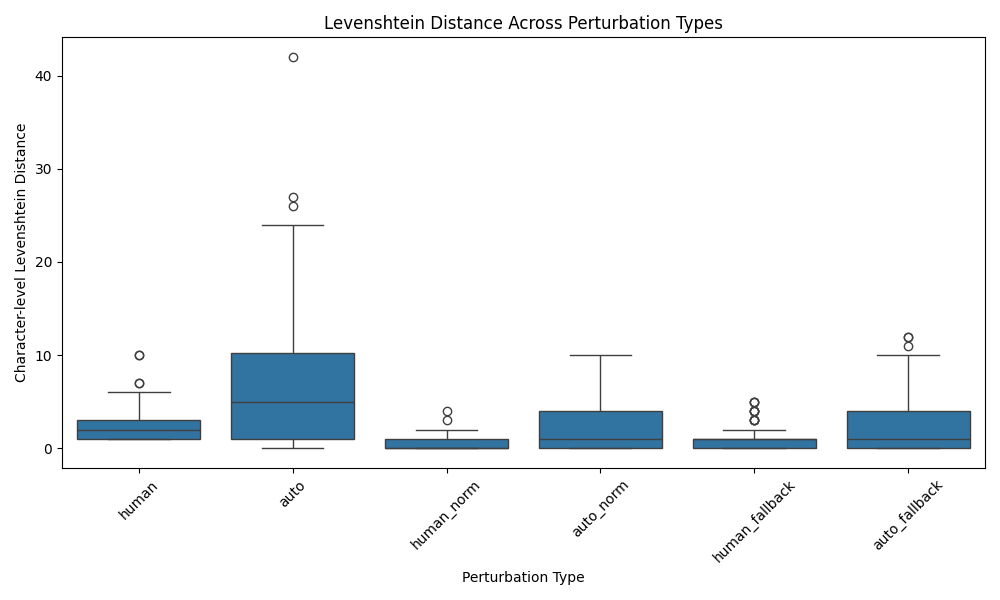
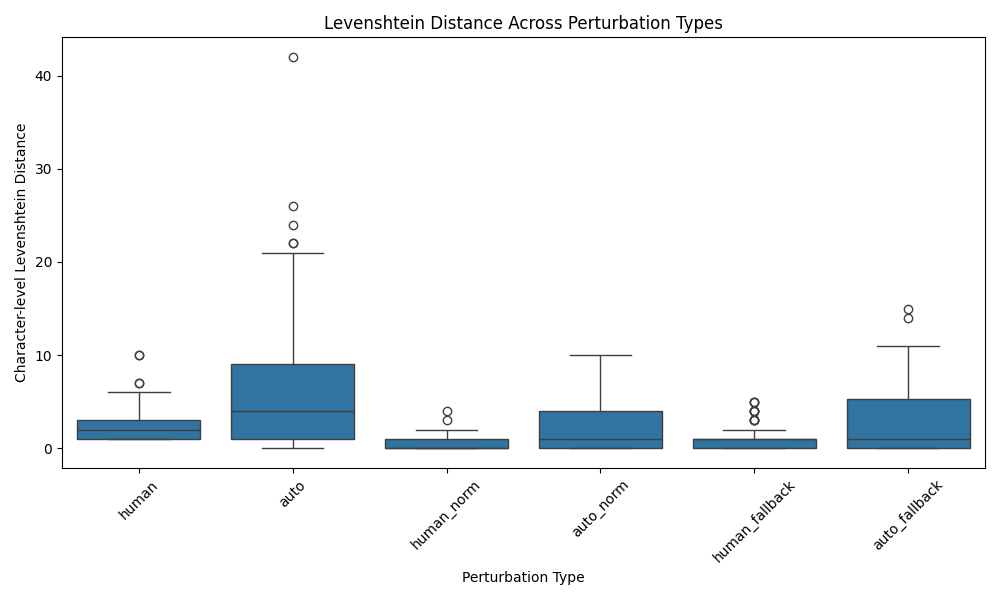
tidied up the visualisations

diff --git a/run.py b/run.py
@@ -19,17 +19,16 @@ def main():
     clean_texts = df["clean_version"].head(100).tolist()
     human_texts = df["perturbed_version"].head(100).tolist()
 
-    # Baseline (Detoxify)
     print("Evaluating Detoxify on clean texts...")
     clean_scores = evaluate_toxicity(clean_texts)
 
     print("Applying normalisation mitigation (clean)...")
-    norm_clean_texts = [normalise_text(t) for t in clean_texts]
-    norm_clean_scores = evaluate_toxicity(norm_clean_texts)
+    clean_norm_texts = [normalise_text(t) for t in clean_texts]
+    clean_norm_scores = evaluate_toxicity(clean_norm_texts)
 
     print("Applying detection + fallback mitigation (clean)...")
-    fallback_clean_texts = detect_and_fallback(clean_texts, fallback_fn=lambda x: x)
-    fallback_clean_scores = evaluate_toxicity(fallback_clean_texts)
+    clean_fallback_texts = detect_and_fallback(clean_texts, fallback_fn=lambda x: x)
+    clean_fallback_scores = evaluate_toxicity(clean_fallback_texts)
 
     print("Evaluating Detoxify on human perturbed texts...")
     human_scores = evaluate_toxicity(human_texts)
@@ -39,22 +38,21 @@ def main():
     auto_texts = [str(t) if t is not None else "" for t in auto_texts]
     auto_scores = evaluate_toxicity(auto_texts)
 
-    # Mitigation strategies (Detoxify)
     print("Applying normalisation mitigation (human)...")
-    norm_human_texts = [normalise_text(t) for t in human_texts]
-    norm_human_scores = evaluate_toxicity(norm_human_texts)
+    human_norm_texts = [normalise_text(t) for t in human_texts]
+    human_norm_scores = evaluate_toxicity(human_norm_texts)
 
     print("Applying detection + fallback mitigation (human)...")
-    fallback_human_texts = detect_and_fallback(human_texts, fallback_fn=lambda x: x)
-    fallback_human_scores = evaluate_toxicity(fallback_human_texts)
+    human_fallback_texts = detect_and_fallback(human_texts, fallback_fn=lambda x: x)
+    human_fallback_scores = evaluate_toxicity(human_fallback_texts)
 
     print("Applying normalisation mitigation (automated)...")
-    norm_auto_texts = [normalise_text(t) for t in auto_texts]
-    norm_auto_scores = evaluate_toxicity(norm_auto_texts)
+    auto_norm_texts = [normalise_text(t) for t in auto_texts]
+    auto_norm_scores = evaluate_toxicity(auto_norm_texts)
 
     print("Applying detection + fallback mitigation (automated)...")
-    fallback_auto_texts = detect_and_fallback(auto_texts, fallback_fn=lambda x: x)
-    fallback_auto_scores = evaluate_toxicity(fallback_auto_texts)
+    auto_fallback_texts = detect_and_fallback(auto_texts, fallback_fn=lambda x: x)
+    auto_fallback_scores = evaluate_toxicity(auto_fallback_texts)
 
     # HateXplain
     print("\nRunning HateXplain on clean texts...")
@@ -70,14 +68,14 @@ def main():
 
     hx_auto_label_stats = evaluate_label_changes(hx_clean, hx_auto)
 
-    hx_human_norm = hatexplain(norm_human_texts)
-    hx_human_fallback = hatexplain(fallback_human_texts)
+    hx_human_norm = hatexplain(human_norm_texts)
+    hx_human_fallback = hatexplain(human_fallback_texts)
 
     hx_human_norm_label_stats = evaluate_label_changes(hx_clean, hx_human_norm)
     hx_human_fallback_label_stats = evaluate_label_changes(hx_clean, hx_human_fallback)
 
-    hx_auto_norm = hatexplain(norm_auto_texts)
-    hx_auto_fallback = hatexplain(fallback_auto_texts)
+    hx_auto_norm = hatexplain(auto_norm_texts)
+    hx_auto_fallback = hatexplain(auto_fallback_texts)
 
     hx_auto_norm_label_stats = evaluate_label_changes(hx_clean, hx_auto_norm)
     hx_auto_fallback_label_stats = evaluate_label_changes(hx_clean, hx_auto_fallback)
@@ -100,36 +98,36 @@ def main():
             persp_clean = evaluate_perspective(clean_texts)
 
             print("Applying normalisation mitigation (Perspective, clean)...")
-            persp_clean_norm = evaluate_perspective(norm_clean_texts)
+            persp_clean_norm = evaluate_perspective(clean_norm_texts)
 
             print("Applying detection + fallback mitigation (Perspective, clean)...")
-            persp_clean_fallback = evaluate_perspective(fallback_clean_texts)
+            persp_clean_fallback = evaluate_perspective(clean_fallback_texts)
 
             print("Evaluating Perspective API on human perturbed texts...")
             persp_human = evaluate_perspective(human_texts)
 
             print("Applying normalisation mitigation (Perspective, human)...")
-            persp_human_norm = evaluate_perspective(norm_human_texts)
+            persp_human_norm = evaluate_perspective(human_norm_texts)
 
             print("Applying detection + fallback mitigation (Perspective, human)...")
-            persp_human_fallback = evaluate_perspective(fallback_human_texts)
+            persp_human_fallback = evaluate_perspective(human_fallback_texts)
 
             print("Evaluating Perspective API on automated perturbed texts...")
             persp_auto = evaluate_perspective(auto_texts)
 
             print("Applying normalisation mitigation (Perspective, auto)...")
-            persp_auto_norm = evaluate_perspective(norm_auto_texts)
+            persp_auto_norm = evaluate_perspective(auto_norm_texts)
 
             print("Applying detection + fallback mitigation (Perspective, auto)...")
-            persp_auto_fallback = evaluate_perspective(fallback_auto_texts)
+            persp_auto_fallback = evaluate_perspective(auto_fallback_texts)
 
             persp_results = {
-                "perspective_clean_norm": compare_toxicity_scores(persp_clean, persp_clean_norm),
-                "perspective_clean_fallback": compare_toxicity_scores(persp_clean, persp_clean_fallback),
                 "perspective_human_drop": compare_toxicity_scores(persp_clean, persp_human),
+                "perspective_auto_drop": compare_toxicity_scores(persp_clean, persp_auto),
+                "perspective_unperturbed_norm": compare_toxicity_scores(persp_clean, persp_clean_norm),
+                "perspective_unperturbed_fallback": compare_toxicity_scores(persp_clean, persp_clean_fallback),
                 "perspective_human_norm": compare_toxicity_scores(persp_clean, persp_human_norm),
                 "perspective_human_fallback": compare_toxicity_scores(persp_clean, persp_human_fallback),
-                "perspective_auto_drop": compare_toxicity_scores(persp_clean, persp_auto),
                 "perspective_auto_norm": compare_toxicity_scores(persp_clean, persp_auto_norm),
                 "perspective_auto_fallback": compare_toxicity_scores(persp_clean, persp_auto_fallback),
             }
@@ -138,17 +136,16 @@ def main():
             print(f"\n⚠ Skipping Perspective API analysis due to error: {e}")
             persp_results = {}
 
-    # Combining the results
     print("\nComparing Detoxify results...")
     result_summary = {
-        "human_drop": compare_toxicity_scores(clean_scores, human_scores),
-        "auto_drop": compare_toxicity_scores(clean_scores, auto_scores),
-        "clean_norm": compare_toxicity_scores(clean_scores, norm_clean_scores),
-        "clean_fallback": compare_toxicity_scores(clean_scores, fallback_clean_scores),
-        "norm_human": compare_toxicity_scores(clean_scores, norm_human_scores),
-        "fallback_human": compare_toxicity_scores(clean_scores, fallback_human_scores),
-        "norm_auto": compare_toxicity_scores(clean_scores, norm_auto_scores),
-        "fallback_auto": compare_toxicity_scores(clean_scores, fallback_auto_scores),
+        "detoxify_human_drop": compare_toxicity_scores(clean_scores, human_scores),
+        "detoxify_auto_drop": compare_toxicity_scores(clean_scores, auto_scores),
+        "detoxify_unperturbed_norm": compare_toxicity_scores(clean_scores, clean_norm_scores),
+        "detoxify_unperturbed_fallback": compare_toxicity_scores(clean_scores, clean_fallback_scores),
+        "detoxify_human_norm": compare_toxicity_scores(clean_scores, human_norm_scores),
+        "detoxify_human_fallback": compare_toxicity_scores(clean_scores, human_fallback_scores),
+        "detoxify_auto_norm": compare_toxicity_scores(clean_scores, auto_norm_scores),
+        "detoxify_auto_fallback": compare_toxicity_scores(clean_scores, auto_fallback_scores),
         **persp_results
     }
 
@@ -164,15 +161,15 @@ def main():
     plot_label_changes(hx_results, save_path="HX_label_changes.png")
 
     print("Generating box plot...")
-    # Box plot requires raw scores
+
     raw_scores = {
-        "clean": clean_scores,
+        "unperturbed": clean_scores,
         "human": human_scores,
         "auto": auto_scores,
-        "norm_human": norm_human_scores,
-        "fallback_human": fallback_human_scores,
-        "norm_auto": norm_auto_scores,
-        "fallback_auto": fallback_auto_scores
+        "human_norm": human_norm_scores,
+        "human_fallback": human_fallback_scores,
+        "auto_norm": auto_norm_scores,
+        "auto_fallback": auto_fallback_scores
     }
     plot_box(raw_scores, metric="toxicity", save_path="results_box.png")
 
@@ -180,13 +177,13 @@ def main():
     plot_scatter(
         scores_x=raw_scores,
         scores_y={
-            "clean": persp_clean,
+            "unperturbed": persp_clean,
             "human": persp_human,
             "auto": persp_auto,
-            "norm_human": persp_human_norm,
-            "fallback_human": persp_human_fallback,
-            "norm_auto": persp_auto_norm,
-            "fallback_auto": persp_auto_fallback,
+            "human_norm": persp_human_norm,
+            "human_fallback": persp_human_fallback,
+            "auto_norm": persp_auto_norm,
+            "auto_fallback": persp_auto_fallback,
         },
         label_x="Detoxify Toxicity Score",
         label_y="Perspective Toxicity Score",
@@ -205,10 +202,10 @@ def main():
 
     lev_human = compute_levenshtein(clean_texts, human_texts)
     lev_auto = compute_levenshtein(clean_texts, auto_texts)
-    lev_human_norm = compute_levenshtein(clean_texts, norm_human_texts)
-    lev_auto_norm = compute_levenshtein(clean_texts, norm_auto_texts)
-    lev_human_fallback = compute_levenshtein(clean_texts, fallback_human_texts)
-    lev_auto_fallback = compute_levenshtein(clean_texts, fallback_auto_texts)
+    lev_human_norm = compute_levenshtein(clean_texts, human_norm_texts)
+    lev_auto_norm = compute_levenshtein(clean_texts, auto_norm_texts)
+    lev_human_fallback = compute_levenshtein(clean_texts, human_fallback_texts)
+    lev_auto_fallback = compute_levenshtein(clean_texts, auto_fallback_texts)
 
     lev_summaries = [
         summarise_levenshtein(lev_human, "human"),
@@ -238,10 +235,10 @@ def main():
 
     flesch_human = compute_readability(clean_texts, human_texts)
     flesch_auto = compute_readability(clean_texts, auto_texts)
-    flesch_human_norm = compute_readability(clean_texts, norm_human_texts)
-    flesch_auto_norm = compute_readability(clean_texts, norm_auto_texts)
-    flesch_human_fallback = compute_readability(clean_texts, fallback_human_texts)
-    flesch_auto_fallback = compute_readability(clean_texts, fallback_auto_texts)
+    flesch_human_norm = compute_readability(clean_texts, human_norm_texts)
+    flesch_auto_norm = compute_readability(clean_texts, auto_norm_texts)
+    flesch_human_fallback = compute_readability(clean_texts, human_fallback_texts)
+    flesch_auto_fallback = compute_readability(clean_texts, auto_fallback_texts)
 
     flesch_results = {
         "human": flesch_human,

diff --git a/data/automated.py b/data/automated.py
@@ -3,7 +3,6 @@ import random
 import unicodedata
 import numpy as np
 
-# Homoglyph and leetspeak mappings
 HOMOGLYPHS = {
     "a": "a", "e": "e", "i": "i", "o": "o", "u": "u",
     "A": "A", "E": "E", "O": "O", "P": "P", "C": "C"
@@ -19,25 +18,22 @@ def random_char_noise(text):
         return text
     i = random.randint(0, len(text) - 1)
     ops = [
-        text[:i] + text[i]*2 + text[i+1:],             # duplication
-        text[:i] + "" + text[i+1:],                    # deletion
-        text[:i] + random.choice("!?.*") + text[i:],   # insertion
+        text[:i] + text[i]*2 + text[i+1:],
+        text[:i] + "" + text[i+1:],
+        text[:i] + random.choice("!?.*") + text[i:],
     ]
     return random.choice(ops)
 
 
 def homoglyph_attack(text):
-    """Replace characters with Unicode lookalikes."""
     return "".join(HOMOGLYPHS.get(c, c) for c in text)
 
 
 def leetspeak(text):
-    """Replace letters with numbers/symbols."""
     return "".join(LEET_MAP.get(c.lower(), c) for c in text)
 
 
 def random_spacing(text):
-    """Insert random spaces inside words."""
     return "".join(c + (" " if random.random() < 0.15 else "") for c in text)
 
 
@@ -46,7 +42,6 @@ def random_casing(text):
 
 
 def punctuation_injection(text):
-    """Add random punctuation breaks."""
     punct = ["*", "-", "~", ".", "!", "…"]
     return "".join(c + (random.choice(punct) if random.random() < 0.1 else "") for c in text)
 
@@ -62,9 +57,6 @@ def synonym_substitution(text):
 
 
 def automated_perturbation(texts, num_examples=50):
-    """
-    Generates randomised automated obfuscations.
-    """
     augmenter = WordNetAugmenter()
 
     attacks = [
@@ -88,7 +80,7 @@ def automated_perturbation(texts, num_examples=50):
         try:
             out = attack(t)
         except Exception:
-            out = t  # if there's an error, do nothing
+            out = t
 
         perturbed.append(out)
 

diff --git a/evaluation/visualisation.py b/evaluation/visualisation.py
@@ -3,9 +3,6 @@ import pandas as pd
 import seaborn as sns
 
 def plot_bar(results_dict, metric="mean_drop", save_path="results_bar.png"):
-    """
-    Bar chart showing mean drop in toxicity scores across different conditions.
-    """
     labels, means = [], []
     for name, df in results_dict.items():
         if metric in df.columns:
@@ -14,7 +11,7 @@ def plot_bar(results_dict, metric="mean_drop", save_path="results_bar.png"):
 
     plt.figure(figsize=(12, 6))
     bars = plt.bar(labels, means, color='skyblue')
-    plt.ylabel(f'{metric} (clean - perturbed)')
+    plt.ylabel(f'{metric} (unperturbed - perturbed)')
     plt.title('Mean drop in toxicity score by condition')
     plt.xticks(rotation=30, ha='right')
 
@@ -29,9 +26,6 @@ def plot_bar(results_dict, metric="mean_drop", save_path="results_bar.png"):
 
 
 def plot_box(results_dict, metric="drop_values", save_path="results_box.png"):
-    """
-    Boxplot showing distribution of drops.
-    """
     all_data = []
     for name, df in results_dict.items():
         if metric in df.columns:
@@ -165,7 +159,7 @@ def plot_readability_box(results, save_path="flesch_change_boxplot.png"):
     sns.boxplot(data=full, x="type", y="flesch_change")
     plt.title("Flesch Reading Ease Change Across Conditions")
     plt.xlabel("Perturbation Type")
-    plt.ylabel("Change in Flesch Score (perturbed - clean)")
+    plt.ylabel("Change in Flesch Score (perturbed - unperturbed)")
     plt.axhline(0, linestyle="--")
     plt.xticks(rotation=45)
     plt.tight_layout()

diff --git a/data/noisyhate.py b/data/noisyhate.py
@@ -2,22 +2,15 @@ from datasets import load_dataset
 import pandas as pd
 
 def load_noisyhate():
-    """
-    Loads the NoisyHate dataset (clean and perturbed versions) 
-    from Hugging Face and merges them into a single DataFrame.
-    """
 
-    # Load dataset from Hugging Face
     dataset = load_dataset("NoisyHate/Noisy_Hate_Data")
 
     print("Available splits:", dataset.keys())
 
-    # Check if 'clean' and 'pert' splits exist
     if "clean" in dataset and "pert" in dataset:
         df_clean = pd.DataFrame(dataset["clean"])
         df_pert = pd.DataFrame(dataset["pert"])
 
-        # Merge if both have an ID column
         if "id" in df_clean.columns and "id" in df_pert.columns:
             df = df_clean.merge(df_pert, on="id", suffixes=("_clean", "_pert"))
         else:
@@ -26,9 +19,8 @@ def load_noisyhate():
         print("Loaded clean and perturbed splits successfully.")
         return df
 
-    # Otherwise, fallback to single-split mode
     else:
-        split_name = list(dataset.keys())[0]  # pick the first available split
+        split_name = list(dataset.keys())[0]
         df = pd.DataFrame(dataset[split_name])
         print(f"Loaded single split: {split_name}")
         print("Columns:", df.columns.tolist())

diff --git a/mitigations/normalisation.py b/mitigations/normalisation.py
@@ -8,9 +8,9 @@ def normalise_text(text):
     text = text.lower()
     text = unicodedata.normalize('NFKD', text).encode('ascii', 'ignore').decode('utf-8')
     text = text.translate(translation)
-    text = re.sub(r'(.)\1{2,}', r'\1\1', text)  # collapse repeated letters
-    text = re.sub(r'[^a-z\s]', '', text)       # remove punctuation
-    text = re.sub(r'\s+', ' ', text)          # fix extra spaces
+    text = re.sub(r'(.)\1{2,}', r'\1\1', text)
+    text = re.sub(r'[^a-z\s]', '', text)
+    text = re.sub(r'\s+', ' ', text)
     return text.strip()
 
 if __name__ == "__main__":

diff --git a/mitigations/detection_fallback.py b/mitigations/detection_fallback.py
@@ -57,10 +57,8 @@ def detect_and_fallback(texts, fallback_fn, threshold=0.35, correct_spelling=Tru
         score = obfuscation_score(text)
         obfusc_scores.append(score)
 
-        # First apply soft normalisation to clean text
         cleaned = soft_normalise(text)
 
-        # Spell-correct only if obfuscation level is high
         if correct_spelling and score > threshold:
             try:
                 cleaned = str(TextBlob(cleaned).correct())

diff --git a/models/hatexplain.py b/models/hatexplain.py
@@ -12,9 +12,6 @@ model = AutoModelForSequenceClassification.from_pretrained("Hate-speech-CNERG/be
 model.eval()
 
 def hatexplain(texts):
-    """
-    Runs HateXplain on a list of texts and returns LABELS ONLY.
-    """
     labels = []
     for text in texts:
         inputs = tokenizer(text, return_tensors="pt", truncation=True, padding=False)

diff --git a/models/detoxify_model.py b/models/detoxify_model.py
@@ -4,9 +4,6 @@ import pandas as pd
 model = Detoxify('original')
 
 def evaluate_toxicity(texts):
-    """
-    Runs Detoxify model and returns toxicity scores as a pandas DataFrame.
-    """
     results = model.predict(texts)
     return pd.DataFrame(results)
 
